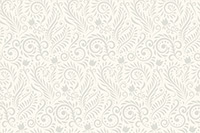
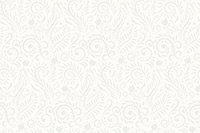
first commit

diff --git a/index.html b/index.html
@@ -19,7 +19,38 @@
     />
 
     <link rel="stylesheet" href="./assets/css/custom.css" />
-    <style></style>
+    <style>
+      .bgPattern {
+        background-image: url(/assets/img/pattern-bg.jpg);
+        background-position: center;
+        background-repeat: repeat;
+      }
+
+      .swiper-controls
+        .swiper-pagination
+        .swiper-pagination-bullet.swiper-pagination-bullet-active {
+        border-color: orange;
+      }
+      .swiper-controls .swiper-pagination .swiper-pagination-bullet {
+        background: green;
+      }
+      h1,
+      h2 {
+        color: green;
+      }
+      h2.dividerHead {
+        position: relative;
+      }
+      /* h2.dividerHead::after {
+        content: "";
+        position: absolute;
+        width: 150px;
+        height: 16px;
+        background-image: url(assets/img/divider.png);
+        background-position: center;
+        background-repeat: no-repeat;
+      } */
+    </style>
   </head>
 
   <body>
@@ -157,7 +188,7 @@
                     data-bs-target="#offcanvas-cart"
                   >
                     <i class="uil uil-shopping-cart"></i>
-                    <span class="badge badge-cart bg-primary">3</span>
+                    <span class="badge badge-cart bg-maroon">3</span>
                   </a>
                 </li>
                 <li class="nav-item d-lg-none">
@@ -460,11 +491,11 @@
         </div>
       </section>
 
-      <section class="wrapper bg-light">
+      <section class="wrapper">
         <div class="container py-14 py-md-16">
           <div class="row align-items-center mb-10 position-relative zindex-1">
             <div class="col-md-8 col-lg-9 col-xl-8 col-xxl-7 pe-xl-20">
-              <h2 class="display-6">New Arrivals</h2>
+              <h2 class="display-6 dividerHead">New Arrivals</h2>
               <nav class="d-inline-block" aria-label="breadcrumb">
                 <ol class="breadcrumb mb-0">
                   <li class="breadcrumb-item"><a href="#">Home</a></li>
@@ -869,7 +900,7 @@
       <!-- /section -->
 
       <section class="wrapper bg-gray">
-        <div class="container pt-10">
+        <div class="container pt-10 pb-10">
           <div
             class="swiper-container blog grid-view mb-16"
             data-margin="30"
@@ -996,7 +1027,7 @@
           <!-- /.swiper-container -->
         </div>
       </section>
-      <section class="wrapper bg-light">
+      <section class="wrapper bg-light bgPattern">
         <div class="container py-14 py-md-16">
           <h2 class="display-4 mb-3 text-center">Happy Customers</h2>
           <p class="lead text-center mb-6 px-md-16 px-lg-0">
@@ -1229,7 +1260,7 @@
       </section>
       <!-- /section -->
 
-      <section class="ftco-section wrapper bg-gray">
+      <section class="ftco-section wrapper">
         <div class="container pt-10 pb-10">
           <div class="row no-gutters ftco-services">
             <div

diff --git a/shop.html b/shop.html
@@ -155,7 +155,7 @@
                     data-bs-target="#offcanvas-cart"
                   >
                     <i class="uil uil-shopping-cart"></i>
-                    <span class="badge badge-cart bg-primary">3</span>
+                    <span class="badge badge-cart bg-maroon">3</span>
                   </a>
                 </li>
                 <li class="nav-item d-lg-none">

diff --git a/shop2.html b/shop2.html
@@ -147,7 +147,7 @@
                     data-bs-target="#offcanvas-cart"
                   >
                     <i class="uil uil-shopping-cart"></i>
-                    <span class="badge badge-cart bg-primary">3</span>
+                    <span class="badge badge-cart bg-maroon">3</span>
                   </a>
                 </li>
                 <li class="nav-item d-lg-none">

diff --git a/assets/css/custom.css b/assets/css/custom.css
@@ -51,3 +51,6 @@ footer .widget img {
 .navbar-brand img {
   padding: 10px 0;
 }
+.bg-maroon {
+  background-color: #b32413;
+}
